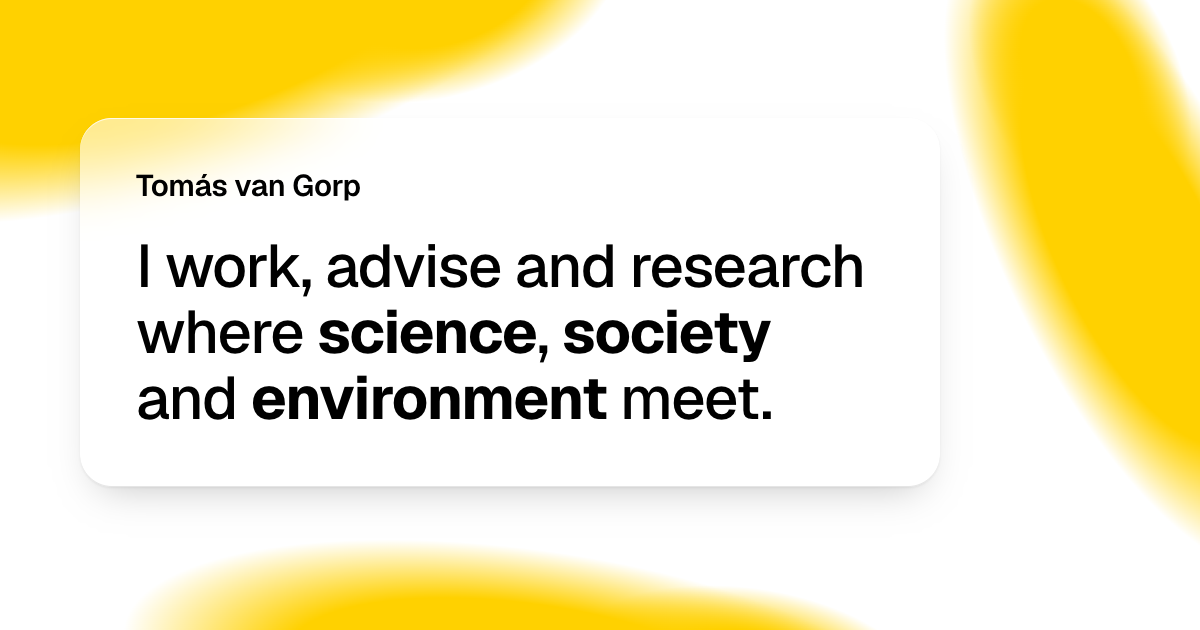
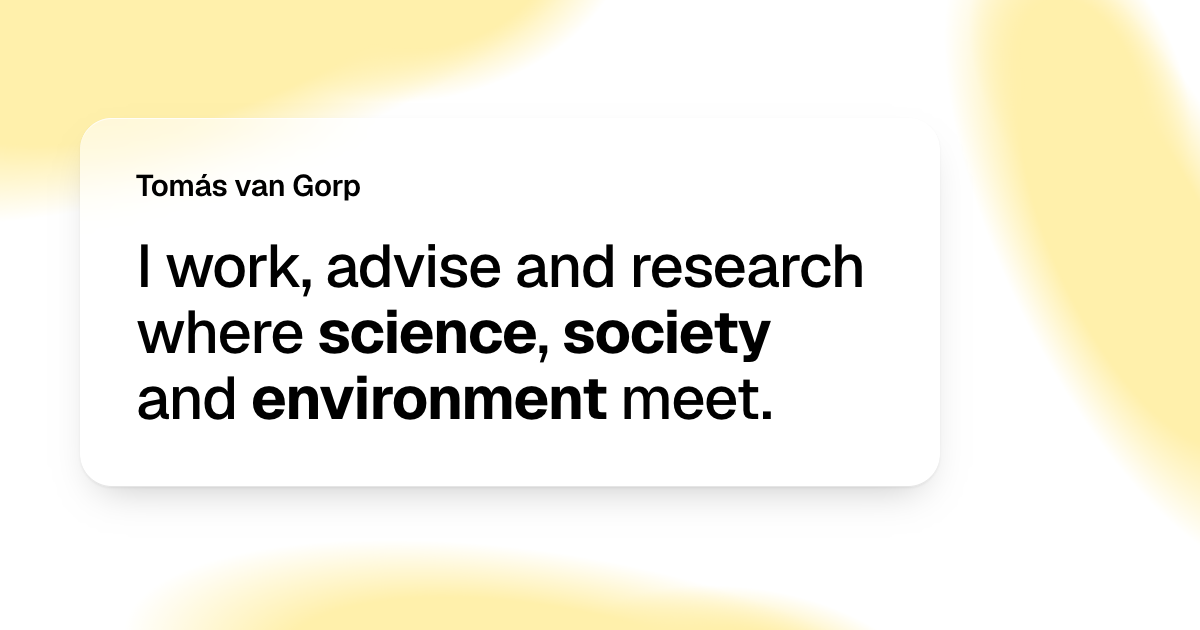
Fainter shapes: a third of full strength
A pale yellow wash in day and a dim deep blue in night, through one
--shape-strength token. Size, form and drift unchanged. og.png
re-rendered to match, plan updated.

Changed region(s): [[0.7708, 0.0, 1.0, 0.8444], [0.0, 0.0, 0.4933, 0.3317], [0.1233, 0.8444, 0.74, 1.0]]

diff --git a/scripts/og-image/og.html b/scripts/og-image/og.html
@@ -4,7 +4,7 @@
 @font-face { font-family: "Geist"; src: url("../../public/fonts/Geist-Variable.woff2") format("woff2"); font-weight: 100 900; }
 * { margin: 0; box-sizing: border-box; }
 html, body { width: 1200px; height: 630px; overflow: hidden; background: #ffffff; font-family: "Geist", sans-serif; color: #000; -webkit-font-smoothing: antialiased; }
-.shape { position: absolute; }
+.shape { position: absolute; opacity: 0.33; }
 .a { width: 900px; height: 330px; left: -260px; top: -150px; transform: rotate(-18deg);
   background: radial-gradient(closest-side at 50% 50%, #ffd100 62%, transparent 100%), radial-gradient(closest-side at 78% 62%, #ffd100 55%, transparent 96%); }
 .b { width: 760px; height: 260px; right: -330px; top: 150px; transform: rotate(64deg);

diff --git a/src/styles/tokens.css b/src/styles/tokens.css
@@ -23,6 +23,10 @@
   --color-on-highlight: #ffffff;
   /* Large shapes only. Yellow in day, never for text or small elements. */
   --color-shape: var(--yellow);
+  /* How strongly the shapes show: about a third of the full colour, a pale
+     yellow wash in day (#fff0ab on white) and a dim deep blue in night
+     (#001135 on black). Chosen from the brief. */
+  --shape-strength: 0.33;
   /* Grain strength over the shapes. Chosen by eye, low enough to leave the
      contrast figures unchanged. */
   --grain-opacity: 0.05;

diff --git a/docs/design/redesign-plan.md b/docs/design/redesign-plan.md
@@ -1,6 +1,6 @@
 # Redesign plan: two colour layers
 
-Approved by Tomás on 25 September 2026. Phase 1 cleaned up the code and kept the old look. Phase 2 built the folded layers version. Phase 3 turned it monochrome with round drifting shapes and focus on hover. Phase 4 brought in the primaries, a red mark and a 70s stripe. Phase 5 narrows each theme to two surface colours, drops red and the stripe, makes the shapes larger and bolder, collapses the navigation and adds an about page. This file describes the phase 5 target.
+Approved by Tomás on 25 September 2026. Phase 1 cleaned up the code and kept the old look. Phase 2 built the folded layers version. Phase 3 turned it monochrome with round drifting shapes and focus on hover. Phase 4 brought in the primaries, a red mark and a 70s stripe. Phase 5 narrows each theme to two surface colours, drops red and the stripe, makes the shapes larger and bolder, collapses the navigation and adds an about page. Phase 6 added page transitions, a 404 page and launch metadata. Phase 7 fades the shapes to about a third of their strength and puts the menu in the bar on every page. This file describes the phase 7 target.
 
 ## Concept
 The site is a stack of translucent sheets above a slow field of large, soft, organic shapes. Depth comes from layers, a light top edge and a darker bottom edge. No colour gradients as decoration. Glass is for navigation, panels and buttons only. Long text sits on a solid reading sheet.
@@ -33,7 +33,7 @@ Muted text only sits on glass or sheets, never directly on the background.
 Every text and background pair must pass WCAG AA contrast, including highlight and muted text on glass over the shapes.
 
 ## Background
-Three or four large, stretched, organic shapes in the theme's shape colour. Their colour is clearly visible, with soft edges from radial gradients rather than a blur filter. They may overlap, since they share one colour. A fine static grain lies over the shapes and under the glass at very low opacity in both themes.
+Three or four large, stretched, organic shapes in the theme's shape colour, shown at about a third of full strength: a pale yellow wash in day and a dim, deep blue in night. Soft edges come from radial gradients rather than a blur filter. They may overlap, since they share one colour. A fine static grain lies over the shapes and under the glass at very low opacity in both themes.
 
 Sheets, panels and the nav have large rounded corners. No glow, no neon, no gradient text, no shiny or 3D effects.
 
